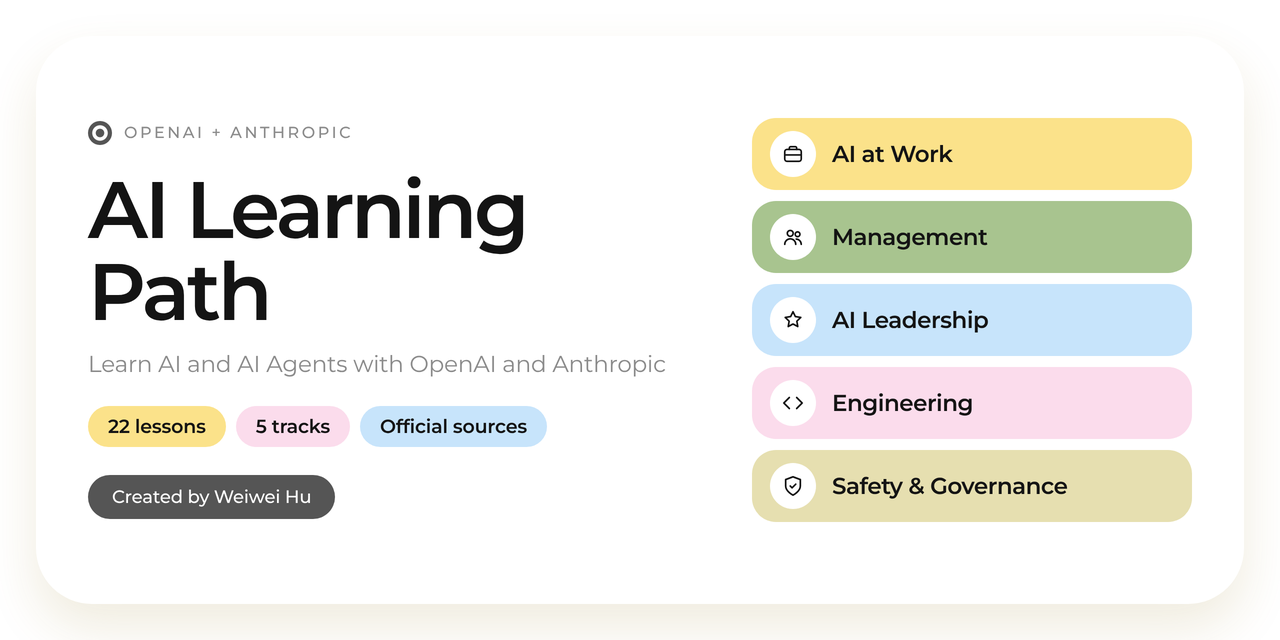
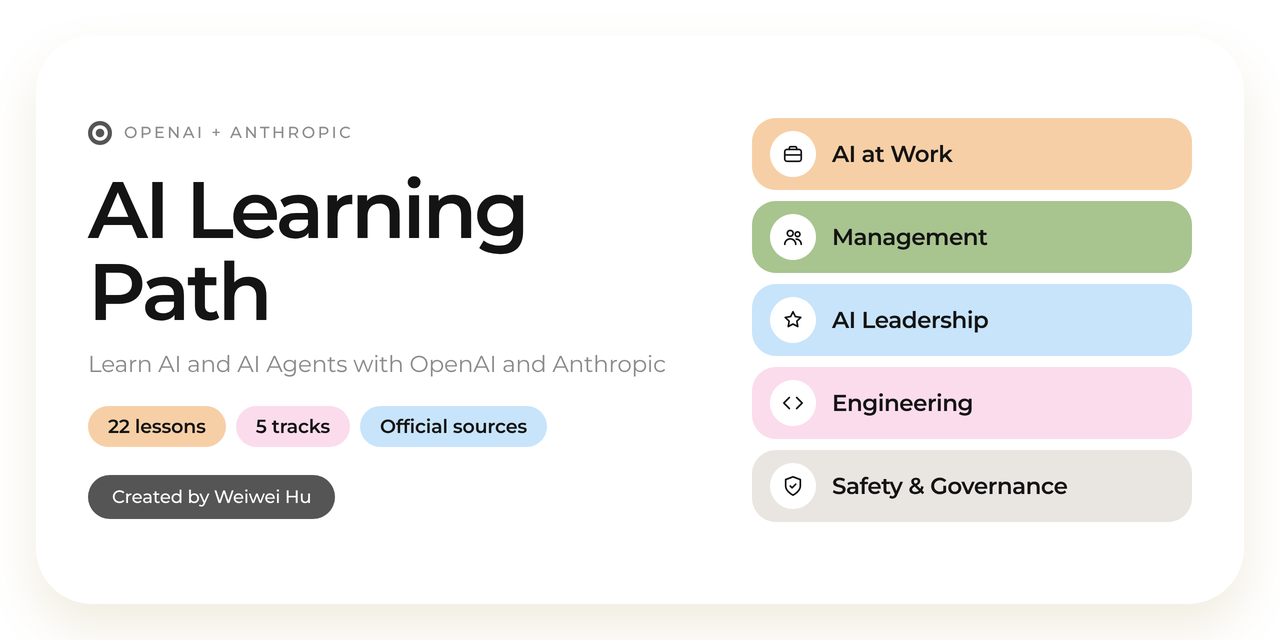
Update design
Claude-Session: https://claude.ai/code/session_01BdwePaEpPAiDmq5pX3fjB4

Changed region(s): [[0.5625, 0.6875, 0.9375, 0.8125], [0.5625, 0.1875, 0.9375, 0.3125], [0.0625, 0.625, 0.1875, 0.7188]]

diff --git a/docs/index.html b/docs/index.html
@@ -305,7 +305,7 @@ body,.bg{background:#fff}
   <p class="hlabel">Free course</p>
   <h1>AI <em>Learning Path</em></h1>
   <p class="tagline2">Learn AI and AI Agents with OpenAI and Anthropic.</p>
-  <p class="socrow"><span class="soc"><a href="https://www.linkedin.com/in/weiweihu/" target="_blank" rel="noopener" aria-label="LinkedIn" title="LinkedIn"><svg aria-hidden="true" width="17" height="17" viewBox="0 0 24 24" fill="none" stroke="currentColor" stroke-width="1.8" stroke-linecap="round" stroke-linejoin="round"><path d="M16 8a6 6 0 0 1 6 6v7h-4v-7a2 2 0 0 0-4 0v7h-4v-7a6 6 0 0 1 6-6z"/><rect x="2" y="9" width="4" height="12"/><circle cx="4" cy="4" r="2"/></svg><span>LinkedIn</span></a><a href="https://github.com/wei-wei-hu" target="_blank" rel="noopener" aria-label="GitHub" title="GitHub"><svg aria-hidden="true" width="17" height="17" viewBox="0 0 24 24" fill="none" stroke="currentColor" stroke-width="1.8" stroke-linecap="round" stroke-linejoin="round"><path d="M9 19c-5 1.5-5-2.5-7-3m14 6v-3.87a3.37 3.37 0 0 0-.94-2.61c3.14-.35 6.44-1.54 6.44-7A5.44 5.44 0 0 0 20 4.77 5.07 5.07 0 0 0 19.91 1S18.73.65 16 2.48a13.38 13.38 0 0 0-7 0C6.27.65 5.09 1 5.09 1A5.07 5.07 0 0 0 5 4.77a5.44 5.44 0 0 0-1.5 3.78c0 5.42 3.3 6.61 6.44 7A3.37 3.37 0 0 0 9 18.13V22"/></svg><span>GitHub</span></a><a href="https://weiweihu.carrd.co/" target="_blank" rel="noopener" aria-label="Website" title="Website"><svg aria-hidden="true" width="17" height="17" viewBox="0 0 24 24" fill="none" stroke="currentColor" stroke-width="1.8" stroke-linecap="round" stroke-linejoin="round"><circle cx="12" cy="12" r="10"/><path d="M2 12h20"/><path d="M12 2a15.3 15.3 0 0 1 4 10 15.3 15.3 0 0 1-4 10 15.3 15.3 0 0 1-4-10 15.3 15.3 0 0 1 4-10z"/></svg><span>Website</span></a><a href="https://behindprompt.substack.com/" target="_blank" rel="noopener" aria-label="Behind the Prompt on Substack" title="Behind the Prompt on Substack"><svg aria-hidden="true" width="17" height="17" viewBox="0 0 24 24" fill="none" stroke="currentColor" stroke-width="1.8" stroke-linecap="round" stroke-linejoin="round"><path d="M12 1a3 3 0 0 0-3 3v8a3 3 0 0 0 6 0V4a3 3 0 0 0-3-3z"/><path d="M19 10v2a7 7 0 0 1-14 0v-2"/><path d="M12 19v4"/><path d="M8 23h8"/></svg><span>Podcast</span></a></span></p>
+  <p class="socrow"><span class="soc"><a href="https://www.linkedin.com/in/weiweihu/" target="_blank" rel="noopener" aria-label="LinkedIn" title="LinkedIn"><svg aria-hidden="true" width="17" height="17" viewBox="0 0 24 24" fill="none" stroke="currentColor" stroke-width="1.8" stroke-linecap="round" stroke-linejoin="round"><path d="M16 8a6 6 0 0 1 6 6v7h-4v-7a2 2 0 0 0-4 0v7h-4v-7a6 6 0 0 1 6-6z"/><rect x="2" y="9" width="4" height="12"/><circle cx="4" cy="4" r="2"/></svg><span>LinkedIn</span></a><a href="https://github.com/wei-wei-hu" target="_blank" rel="noopener" aria-label="GitHub" title="GitHub"><svg aria-hidden="true" width="17" height="17" viewBox="0 0 24 24" fill="none" stroke="currentColor" stroke-width="1.8" stroke-linecap="round" stroke-linejoin="round"><path d="M9 19c-5 1.5-5-2.5-7-3m14 6v-3.87a3.37 3.37 0 0 0-.94-2.61c3.14-.35 6.44-1.54 6.44-7A5.44 5.44 0 0 0 20 4.77 5.07 5.07 0 0 0 19.91 1S18.73.65 16 2.48a13.38 13.38 0 0 0-7 0C6.27.65 5.09 1 5.09 1A5.07 5.07 0 0 0 5 4.77a5.44 5.44 0 0 0-1.5 3.78c0 5.42 3.3 6.61 6.44 7A3.37 3.37 0 0 0 9 18.13V22"/></svg><span>GitHub</span></a><a href="https://weiweihu.carrd.co/" target="_blank" rel="noopener" aria-label="Website" title="Website"><svg aria-hidden="true" width="17" height="17" viewBox="0 0 24 24" fill="none" stroke="currentColor" stroke-width="1.8" stroke-linecap="round" stroke-linejoin="round"><circle cx="12" cy="12" r="10"/><path d="M2 12h20"/><path d="M12 2a15.3 15.3 0 0 1 4 10 15.3 15.3 0 0 1-4 10 15.3 15.3 0 0 1-4-10 15.3 15.3 0 0 1 4-10z"/></svg><span>Website</span></a><a href="https://behindprompt.substack.com/" target="_blank" rel="noopener" aria-label="Newsletter on Substack" title="Newsletter on Substack"><svg aria-hidden="true" width="17" height="17" viewBox="0 0 24 24" fill="none" stroke="currentColor" stroke-width="1.8" stroke-linecap="round" stroke-linejoin="round"><rect x="2" y="4" width="20" height="16" rx="2"/><path d="m22 6-10 7L2 6"/></svg><span>Newsletter</span></a></span></p>
   </div>
   <div class="prov glass" role="tablist" id="prov">
     <button class="pv" role="tab" data-v="openai" aria-selected="true"><span class="dot"></span>OpenAI</button>
@@ -353,7 +353,7 @@ body,.bg{background:#fff}
 // [title, subtitle, url, type, level, priority(E/R/O), time]
 const DATA={"openai": {"name": "OpenAI", "courses": 14, "P": {"work": {"t": "AI at Work", "who": "For anyone who uses AI in their job and wants better, more reliable results.", "st": [["Build AI fluency", "How AI works, where it fails, and how to brief it well.", [["Get oriented at OpenAI Academy", "Start with the Apply AI at Work pathway", "https://www.openai.com/academy", "Hub", "Beginner", "R", ""], ["AI Foundations", "AI basics, prompting, context, reviewing outputs", "https://academy.openai.com/pages/courses", "Course", "Beginner", "E", "60–75 min"], ["Applied AI Foundations", "Turn tasks into repeatable workflows with review points", "https://academy.openai.com/pages/courses", "Course", "Beginner", "E", "75–90 min"]]], ["Work with assistants and agents", "Hand off real tasks and check the results.", [["Agents and Workflows", "Delegate structured tasks to agents with checkpoints and oversight", "https://academy.openai.com/pages/courses", "Course", "Intermediate", "E", "75–90 min"], ["Scope AI Solutions", "Spot the tasks where AI is worth using", "https://academy.openai.com/pages/courses", "Course", "Beginner", "R", "30 min"], ["A practical guide to building agents", "Read the first chapter: when an agent fits a task", "https://cdn.openai.com/business-guides-and-resources/a-practical-guide-to-building-agents.pdf", "Guide", "Beginner", "O", ""]]]]}, "mgmt": {"t": "Management", "who": "For managers whose teams work with AI every day. Builds on AI at Work.", "st": [["Build team AI fluency", "What your team needs to know to work well with AI.", [["AI Foundations", "AI basics, prompting, context, reviewing outputs", "https://academy.openai.com/pages/courses", "Course", "Beginner", "E", "60–75 min"], ["Applied AI Foundations", "Turn tasks into repeatable workflows with review points", "https://academy.openai.com/pages/courses", "Course", "Beginner", "E", "75–90 min"], ["Agents and Workflows", "Delegate structured tasks to agents with checkpoints and oversight", "https://academy.openai.com/pages/courses", "Course", "Intermediate", "E", "75–90 min"]]], ["Redesign team workflows", "Decide what moves to AI and how work gets checked.", [["Scope AI Solutions", "Find valuable opportunities and turn one into a plan", "https://academy.openai.com/pages/courses", "Course", "Beginner", "E", "30 min"], ["A practical guide to building agents", "When an agent fits a task, and when a workflow is better", "https://cdn.openai.com/business-guides-and-resources/a-practical-guide-to-building-agents.pdf", "Guide", "Beginner", "R", "~1 hr"], ["Harness engineering", "How an engineering team's work changed when agents wrote the code", "https://openai.com/index/harness-engineering/", "Article", "Intermediate", "O", ""]]], ["Review, measure and scale", "Keep quality high and grow what works.", [["Evaluate AI Applications", "Representative checks, failure analysis, regression prevention", "https://academy.openai.com/pages/courses", "Course", "Intermediate", "R", "70 min"], ["Scale Codex Across Governed Teams and Systems", "For engineering managers: parallel work and governance", "https://academy.openai.com/pages/courses", "Course", "Advanced", "O", "100 min"]]]]}, "exec": {"t": "AI Leadership", "who": "For people who lead AI adoption: transformation leads, AI champions and the executives who sponsor them.", "st": [["Build AI fluency", "The Academy foundations path: from prompting to directing agents.", [["Get oriented at OpenAI Academy", "14 free courses across four pathways", "https://www.openai.com/academy", "Hub", "Beginner", "R", ""], ["AI Foundations", "AI basics, prompting, context, reviewing outputs, responsible use", "https://academy.openai.com/pages/courses", "Course", "Beginner", "E", "60–75 min"], ["Applied AI Foundations", "Break work into steps and build repeatable workflows with review points", "https://academy.openai.com/pages/courses", "Course", "Beginner", "E", "75–90 min"], ["Agents and Workflows", "Delegate structured tasks to agents with boundaries, checkpoints and oversight", "https://academy.openai.com/pages/courses", "Course", "Intermediate", "E", "75–90 min"]]], ["Set strategy", "Decide where AI and agents are worth it and how to roll them out.", [["AI Leadership", "Priorities, stakeholder alignment, and an AI strategy with governance and roadmap", "https://academy.openai.com/pages/courses", "Course", "Intermediate", "E", "180 min"], ["Scope AI Solutions", "Find valuable AI opportunities and turn one into a solution plan", "https://academy.openai.com/pages/courses", "Course", "Beginner", "E", "30 min"], ["A practical guide to building agents", "When an agent is worth building, its parts, orchestration, guardrails", "https://cdn.openai.com/business-guides-and-resources/a-practical-guide-to-building-agents.pdf", "Guide", "Beginner", "R", "~1 hr"], ["Harness engineering", "How a small team shipped 1M+ lines in five months with Codex writing every line", "https://openai.com/index/harness-engineering/", "Article", "Intermediate", "R", ""]]], ["Govern and oversee", "Risk, oversight and safeguards as AI gets real access.", [["Preparedness Framework", "How OpenAI tracks and gates frontier risks", "https://openai.com/index/updating-our-preparedness-framework/", "Policy", "Intermediate", "E", ""], ["The Hugging Face incident", "Models in a cyber evaluation got around isolation controls; what changed after", "https://openai.com/index/hugging-face-incident-and-the-road-ahead/", "Article", "Intermediate", "E", ""], ["Other Academy courses for your org", "AI for Educators and AI for College Students, 45 min each", "https://academy.openai.com/pages/courses", "Course", "Beginner", "O", "45 min"]]]]}, "eng": {"t": "Engineering", "who": "For architects and engineers who design, build and run AI systems.", "st": [["Learn the platform", "The API, tools and output formats everything else builds on.", [["Responses API", "The core API for text, tools and multi-turn state", "https://developers.openai.com/api/docs/guides/migrate-to-responses", "Docs", "Beginner", "E", ""], ["Using tools", "Built-in tools: web search, file search, code interpreter, MCP", "https://developers.openai.com/api/docs/guides/tools", "Docs", "Intermediate", "E", ""], ["Function calling", "Let models call your own code", "https://developers.openai.com/api/docs/guides/function-calling", "Docs", "Intermediate", "E", ""], ["Structured outputs", "Guarantee JSON that matches your schema", "https://developers.openai.com/api/docs/guides/structured-outputs", "Docs", "Intermediate", "R", ""], ["AI app development track", "Concept to production, including evals", "https://developers.openai.com/tracks/ai-application-development", "Track", "Intermediate", "R", ""]]], ["Ship your first app and agent", "Install, run, and read the source.", [["Agents SDK quickstart", "One agent, running locally", "https://developers.openai.com/api/docs/guides/agents/quickstart", "Docs", "Beginner", "E", "~10 min"], ["Agents SDK examples", "MCP, hosted MCP, memory, voice", "https://openai.github.io/openai-agents-python/examples", "Code", "Intermediate", "E", ""], ["openai/openai-agents-python", "Python SDK; successor to Swarm", "https://github.com/openai/openai-agents-python", "Repo", "Intermediate", "R", ""], ["openai/openai-agents-js", "TypeScript SDK, including voice agents", "https://github.com/openai/openai-agents-js", "Repo", "Intermediate", "O", ""], ["API Builder Bootcamp", "Live series: API foundations, agents, realtime, RAG, production", "https://academy.openai.com/public/resources/api-builder-bootcamp-2026-08-19", "Live/Video", "Intermediate", "R", "5 sessions"]]], ["Data, memory and multimodal", "Ground answers in your data, keep state, and work beyond text.", [["File search and retrieval", "Built-in RAG over your documents", "https://developers.openai.com/api/docs/guides/tools-file-search", "Docs", "Intermediate", "E", ""], ["Conversation state", "Carry context and memory across turns", "https://developers.openai.com/api/docs/guides/conversation-state", "Docs", "Intermediate", "R", ""], ["Images and vision", "Image inputs and image generation", "https://developers.openai.com/api/docs/guides/images-vision", "Docs", "Beginner", "R", ""], ["Audio and speech", "Speech-to-text, text-to-speech and realtime audio", "https://developers.openai.com/api/docs/guides/audio", "Docs", "Intermediate", "O", ""], ["Computer use", "Let models operate interfaces through screenshots and actions", "https://developers.openai.com/api/docs/guides/tools-computer-use", "Docs", "Advanced", "O", ""]]], ["Make it reliable", "Memory, orchestration, retrieval, voice and deployment.", [["OpenAI Cookbook", "Runnable notebooks: RAG, tools, evals, multimodal, agents", "https://developers.openai.com/cookbook", "Hub", "Beginner", "E", ""], ["Memory and compaction recipe", "An evidence-review agent that manages long context", "https://developers.openai.com/cookbook/examples/agents_sdk/building_reliable_agents_memory_compaction", "Cookbook", "Advanced", "E", ""], ["Orchestration, handoffs and MCP tools", "From the full Cookbook list", "https://developers.openai.com/resources/cookbooks", "Cookbook", "Intermediate", "E", ""], ["Build with Retrieval-Augmented Generation", "Retrieval pipelines and answer-quality checks", "https://academy.openai.com/pages/courses", "Course", "Intermediate", "R", "100 min"], ["Deep Research API + Agents SDK", "Agentic research workflows", "https://learn.chatgpt.com/cookbook/examples/deep_research_api/introduction_to_deep_research_api_agents", "Cookbook", "Advanced", "O", ""], ["Voice agents guide", "Voice-first agents with realtime models", "https://developers.openai.com/api/docs/guides/voice-agents", "Docs", "Intermediate", "O", ""], ["Computer use topic hub", "Guides and demos for computer-using agents", "https://developers.openai.com/topics/cua", "Hub", "Advanced", "O", ""], ["Agents SDK Deployment Manager", "Run Agents SDK projects as services", "https://developers.openai.com/cookbook/examples/agents_sdk/deployment_manager/readme", "Cookbook", "Intermediate", "R", ""], ["Agents SDK on AWS Bedrock AgentCore", "Connect ChatGPT to a hosted Agents SDK workflow", "https://developers.openai.com/cookbook/examples/partners/aws/chatgpt_agents_sdk_aws_agentcore_cookbook/notebooks/chatgpt_agents_sdk_aws_agentcore_cookbook", "Cookbook", "Advanced", "O", ""], ["openai/openai-cookbook", "All notebooks in one repo", "https://github.com/openai/openai-cookbook", "Repo", "Beginner", "O", ""]]], ["Design agent systems", "Agents, runtimes and integrations.", [["Building agents learning track", "OpenAI's structured track on core agent concepts", "https://developers.openai.com/tracks/building-agents", "Track", "Beginner", "E", ""], ["Design and Build Agentic Systems", "Dependable agents with defined roles, controlled tools and safe handoffs", "https://academy.openai.com/pages/courses", "Course", "Intermediate", "E", "110 min"], ["Agents SDK guide", "Agents, tools, handoffs, guardrails, sessions, tracing", "https://developers.openai.com/api/docs/guides/agents/sdk", "Docs", "Intermediate", "E", ""], ["Introducing the Agents API", "Managed Codex harness; OpenAI, self-hosted or partner sandboxes", "https://openai.com/index/introducing-the-agents-api/", "Article", "Intermediate", "R", ""], ["Agents topic hub", "Every agent guide, SDK and cookbook on one page", "https://developers.openai.com/topics/agents", "Hub", "Beginner", "R", ""], ["Apps SDK", "Apps that run inside ChatGPT, built on MCP", "https://developers.openai.com/apps-sdk", "Docs", "Intermediate", "R", ""], ["MCP Apps in ChatGPT", "Build to the open MCP Apps standard, add ChatGPT extras after", "https://developers.openai.com/apps-sdk/mcp-apps-in-chatgpt", "Docs", "Advanced", "O", ""], ["Skills + Agents SDK case study", "How OpenAI runs its own repos with AGENTS.md and skills", "https://developers.openai.com/blog/skills-agents-sdk", "Article", "Intermediate", "O", ""]]], ["Learn Codex", "The Academy Codex courses plus the docs behind them.", [["Get Started with Codex", "Scope coding tasks and verify changes with review evidence", "https://academy.openai.com/pages/courses", "Course", "Beginner", "E", "80 min"], ["Codex docs", "App, IDE extension, CLI and cloud", "https://developers.openai.com/codex/", "Docs", "Beginner", "E", ""], ["Codex best practices", "From first prompts to autonomous workflows", "https://developers.openai.com/codex/learn/best-practices", "Guide", "Intermediate", "R", ""], ["Codex glossary", "AGENTS.md, skills, plugins, hooks, surfaces", "https://developers.openai.com/codex/glossary", "Docs", "Beginner", "O", ""], ["openai/codex", "Open-source CLI and the harness behind the Agents API", "https://github.com/openai/codex", "Repo", "Advanced", "O", ""]]], ["Extend and scale Codex", "Skills, plugins and running many agents at once.", [["Extend Codex Workflows", "Turn what works into repeatable team workflows", "https://academy.openai.com/pages/courses", "Course", "Intermediate", "E", "90 min"], ["Agent Skills in Codex", "SKILL.md folders that load only when needed", "https://developers.openai.com/codex/skills", "Docs", "Intermediate", "E", ""], ["Build a Codex plugin", "Bundle skills, MCP servers, apps and hooks", "https://developers.openai.com/codex/plugins/build", "Docs", "Intermediate", "R", ""], ["Connect the Docs MCP server", "developers.openai.com/mcp gives agents read-only doc search", "https://developers.openai.com/codex/skills", "Tool", "Intermediate", "O", ""], ["openai/skills", "The official skills catalog to copy from", "https://github.com/openai/skills", "Repo", "Beginner", "R", ""], ["openai/plugins", "Official plugins, including an Agents SDK plugin", "https://github.com/openai/plugins", "Repo", "Intermediate", "O", ""], ["openai/codex-plugin-cc", "Call Codex from inside Claude Code", "https://github.com/openai/codex-plugin-cc", "Repo", "Intermediate", "O", ""], ["Scale Codex Across Governed Teams and Systems", "Parallel Codex work, governance, safe integration", "https://academy.openai.com/pages/courses", "Course", "Advanced", "R", "100 min"], ["openai/symphony", "Run autonomous Codex agents from a Linear board", "https://github.com/openai/symphony", "Repo", "Advanced", "O", ""], ["Codex Bootcamp", "Live 101 / 201 / 301 sessions for engineering teams", "https://academy.openai.com/en/public/clubs/builders-etkn1/overview", "Live/Video", "Intermediate", "O", ""]]], ["Evaluate, optimize and operate", "Prove it works, then make it faster, cheaper and better.", [["Evaluate AI Applications", "Representative evals, failure analysis, regression prevention", "https://academy.openai.com/pages/courses", "Course", "Intermediate", "E", "70 min"], ["Optimize AI Application Performance", "Balance quality, latency, throughput, reliability and cost", "https://academy.openai.com/pages/courses", "Course", "Advanced", "R", "30 min"], ["Model optimization track", "Accuracy, performance and cost tuning", "https://developers.openai.com/tracks/model-optimization", "Track", "Advanced", "R", ""], ["Fine-tuning topic hub", "Supervised, vision, preference and reinforcement fine-tuning", "https://developers.openai.com/topics/fine-tuning", "Hub", "Advanced", "O", ""]]]]}, "safe": {"t": "Safety & Governance", "who": "For risk, compliance, security and governance teams, and anyone responsible for using AI safely.", "st": [["Understand the risks", "How OpenAI defines and gates frontier risk.", [["Preparedness Framework", "How OpenAI tracks and gates frontier risks", "https://openai.com/index/updating-our-preparedness-framework/", "Policy", "Intermediate", "E", ""], ["The Hugging Face incident", "Models in a cyber evaluation got around isolation controls; what changed after", "https://openai.com/index/hugging-face-incident-and-the-road-ahead/", "Article", "Intermediate", "E", ""]]], ["Secure agents", "Guardrails and defenses for agents with real access.", [["Hardening Atlas against prompt injection", "A rapid loop for finding and fixing attacks on browser agents", "https://openai.com/index/hardening-atlas-against-prompt-injection", "Article", "Intermediate", "E", ""], ["A practical guide to building agents: guardrails", "Layered guardrails for agents", "https://cdn.openai.com/business-guides-and-resources/a-practical-guide-to-building-agents.pdf", "Guide", "Beginner", "R", "~1 hr"], ["Computer use", "Let models operate interfaces through screenshots and actions", "https://developers.openai.com/api/docs/guides/tools-computer-use", "Docs", "Advanced", "O", ""]]], ["Evaluate and monitor", "Prove quality and watch for misbehavior.", [["Evaluate AI Applications", "Evals, failure analysis, regression prevention", "https://academy.openai.com/pages/courses", "Course", "Intermediate", "E", "70 min"], ["Detecting misbehavior in frontier reasoning models", "Using chain-of-thought monitoring to catch misaligned behavior", "https://openai.com/index/chain-of-thought-monitoring/", "Research", "Advanced", "R", ""], ["Chain-of-thought controllability study", "CoT-Control suite finds models struggle to reshape their reasoning", "https://openai.com/index/reasoning-models-chain-of-thought-controllability/", "Research", "Advanced", "O", ""]]], ["Follow the research", "Where OpenAI publishes its safety and research work.", [["OpenAI safety", "How OpenAI approaches safety and alignment", "https://openai.com/safety", "Hub", "Beginner", "R", ""], ["OpenAI research index", "Papers and posts across reasoning, multimodal and more", "https://openai.com/research", "Hub", "Intermediate", "O", ""]]]]}}}, "anthropic": {"name": "Anthropic", "courses": 22, "P": {"work": {"t": "AI at Work", "who": "For anyone who uses AI in their job and wants better, more reliable results.", "st": [["Build AI fluency", "How AI works, where it fails, and how to brief it well.", [["AI Fluency: Framework & Foundations", "Collaborate with AI effectively, efficiently, ethically and safely", "https://anthropic.skilljar.com/", "Course", "Beginner", "E", ""], ["AI Capabilities and Limitations", "A plain introduction to how AI works", "https://anthropic.skilljar.com/", "Course", "Beginner", "E", ""], ["Prompt engineering guide", "Techniques for clear, reliable instructions", "https://platform.claude.com/docs/en/build-with-claude/prompt-engineering/overview", "Docs", "Beginner", "O", ""]]], ["Work with Claude", "Use Claude on real files and multi-step tasks.", [["Claude 101", "Claude for everyday work and its core features", "https://anthropic.skilljar.com/", "Course", "Beginner", "E", ""], ["Introduction to Claude Cowork", "Hand Claude multi-step work on real files and projects", "https://anthropic.skilljar.com/", "Course", "Beginner", "E", ""], ["Building agents with Skills", "Turn how you work into skills Claude can reuse", "https://claude.com/blog/building-agents-with-skills-equipping-agents-for-specialized-work", "Article", "Beginner", "R", ""], ["AI Fluency for your sector", "Versions for small businesses, nonprofits, educators and creative work", "https://anthropic.skilljar.com/", "Course", "Beginner", "O", ""]]]]}, "mgmt": {"t": "Management", "who": "For managers whose teams work with AI every day. Builds on AI at Work.", "st": [["Build team AI fluency", "What your team needs to know to work well with AI.", [["AI Fluency: Framework & Foundations", "Collaborate with AI effectively, efficiently, ethically and safely", "https://anthropic.skilljar.com/", "Course", "Beginner", "E", ""], ["Claude 101", "Claude for everyday work", "https://anthropic.skilljar.com/", "Course", "Beginner", "E", ""], ["Introduction to Claude Cowork", "Hand Claude multi-step work on real files and projects", "https://anthropic.skilljar.com/", "Course", "Beginner", "E", ""]]], ["Redesign team workflows", "Capture how your team works so AI can repeat it.", [["Building agents with Skills", "Package team know-how so agents can reuse it", "https://claude.com/blog/building-agents-with-skills-equipping-agents-for-specialized-work", "Article", "Beginner", "E", ""], ["AI Fluency for your sector", "Versions for small businesses, nonprofits, educators and creative work", "https://anthropic.skilljar.com/", "Course", "Beginner", "R", ""], ["anthropics/skills", "Example skills to adapt for your team", "https://github.com/anthropics/skills", "Repo", "Beginner", "O", ""]]], ["Review, measure and scale", "Keep quality high and grow what works.", [["Demystifying evals for AI agents", "How to check AI work before relying on it", "https://www.anthropic.com/engineering/demystifying-evals-for-ai-agents", "Article", "Intermediate", "R", ""], ["Claude Code in Action", "For engineering managers: long sessions you can steer and verify", "https://anthropic.skilljar.com/", "Course", "Intermediate", "O", ""]]]]}, "exec": {"t": "AI Leadership", "who": "For people who lead AI adoption: transformation leads, AI champions and the executives who sponsor them.", "st": [["Build AI fluency", "Anthropic Academy foundations: how AI works and how to work with it.", [["Get oriented at Anthropic Academy", "22 free courses for workers, builders, educators and leaders", "https://anthropic.skilljar.com/", "Hub", "Beginner", "R", ""], ["AI Fluency: Framework & Foundations", "Collaborate with AI effectively, efficiently, ethically and safely", "https://anthropic.skilljar.com/", "Course", "Beginner", "E", ""], ["Claude 101", "Claude for everyday work, core features, where to go next", "https://anthropic.skilljar.com/", "Course", "Beginner", "E", ""], ["AI Capabilities and Limitations", "A plain introduction to how AI works", "https://anthropic.skilljar.com/", "Course", "Beginner", "R", ""], ["Introduction to Claude Cowork", "Work with Claude on real files and multi-step projects", "https://anthropic.skilljar.com/", "Course", "Beginner", "O", ""]]], ["Set strategy", "Decide where AI and agents are worth it and how to roll them out.", [["Building effective agents", "The foundational post: workflows versus agents, and when to add complexity", "https://www.anthropic.com/engineering/building-effective-agents", "Article", "Beginner", "E", ""], ["Building agents with Skills", "Why Anthropic stopped building specialized agents and packaged expertise instead", "https://claude.com/blog/building-agents-with-skills-equipping-agents-for-specialized-work", "Article", "Beginner", "E", ""], ["How we built our multi-agent research system", "Lessons from Claude's Research feature", "https://www.anthropic.com/engineering/multi-agent-research-system", "Article", "Intermediate", "R", ""], ["Claude Managed Agents announcement", "Hosted agents in public beta; pricing and use cases", "https://claude.com/blog/claude-managed-agents", "Article", "Beginner", "R", ""]]], ["Govern and oversee", "Risk, oversight and safeguards as AI gets real access.", [["Responsible Scaling Policy", "How Anthropic gates more capable models behind safeguards", "https://www.anthropic.com/responsible-scaling-policy", "Policy", "Intermediate", "E", ""], ["Beyond permission prompts", "Sandboxing that makes Claude Code more secure and autonomous", "https://www.anthropic.com/engineering/claude-code-sandboxing", "Article", "Intermediate", "R", ""], ["AI Fluency for your sector", "Versions for nonprofits, small businesses, educators and creative work", "https://anthropic.skilljar.com/", "Course", "Beginner", "O", ""]]]]}, "eng": {"t": "Engineering", "who": "For architects and engineers who design, build and run AI systems.", "st": [["Learn the platform", "The API, prompting, tools and output formats.", [["Claude Platform 101", "Building on the Claude Platform at any experience level", "https://anthropic.skilljar.com/", "Course", "Beginner", "E", ""], ["Features overview", "Every model capability and tool in one table", "https://platform.claude.com/docs/en/build-with-claude/overview", "Docs", "Beginner", "E", ""], ["Building with the Claude API", "The full course on working with Claude through the API", "https://anthropic.skilljar.com/", "Course", "Intermediate", "R", ""], ["Prompt engineering guide", "Official techniques for clear, reliable prompts", "https://platform.claude.com/docs/en/build-with-claude/prompt-engineering/overview", "Docs", "Beginner", "R", ""], ["Structured outputs", "Guarantee JSON and tool inputs that match your schema", "https://platform.claude.com/docs/en/build-with-claude/structured-outputs", "Docs", "Intermediate", "R", ""]]], ["Ship your first app and agent", "Install, run, and read the source.", [["Agent SDK quickstart", "Build a bug-fixing agent in minutes", "https://code.claude.com/docs/en/agent-sdk/quickstart", "Docs", "Beginner", "E", ""], ["anthropics/claude-agent-sdk-demos", "Example agents: email assistant, research agent and more", "https://github.com/anthropics/claude-agent-sdk-demos", "Repo", "Intermediate", "E", ""], ["anthropics/claude-agent-sdk-python", "Python Agent SDK", "https://github.com/anthropics/claude-agent-sdk-python", "Repo", "Intermediate", "R", ""], ["anthropics/claude-agent-sdk-typescript", "TypeScript Agent SDK", "https://github.com/anthropics/claude-agent-sdk-typescript", "Repo", "Intermediate", "O", ""], ["Managed Agents quickstart", "Create your first hosted agent session", "https://platform.claude.com/docs/en/managed-agents/quickstart", "Docs", "Intermediate", "R", ""]]], ["Context, data and tools", "Ground answers in your data, keep memory, and give models good tools.", [["Effective context engineering for AI agents", "Manage the model's limited attention across long tasks", "https://www.anthropic.com/engineering/effective-context-engineering-for-ai-agents", "Article", "Intermediate", "E", ""], ["Writing effective tools for agents", "Design, test and improve tools, with agents helping", "https://www.anthropic.com/engineering/writing-tools-for-agents", "Article", "Intermediate", "E", ""], ["Introducing Contextual Retrieval", "Anthropic's approach to more accurate RAG", "https://www.anthropic.com/news/contextual-retrieval", "Article", "Intermediate", "R", ""], ["Memory tool", "Let Claude store and read information across conversations", "https://platform.claude.com/docs/en/agents-and-tools/tool-use/memory-tool", "Docs", "Intermediate", "R", ""], ["Computer use tool", "Control interfaces through screenshots, mouse and keyboard", "https://platform.claude.com/docs/en/agents-and-tools/tool-use/computer-use-tool", "Docs", "Advanced", "O", ""]]], ["Make it reliable", "Recipes, starter apps and the core API.", [["anthropics/claude-cookbooks", "Notebooks for tool use, RAG, vision, sub-agents, skills and more", "https://github.com/anthropics/claude-cookbooks", "Repo", "Intermediate", "E", ""], ["anthropics/claude-quickstarts", "Deployable starter apps on the Claude API", "https://github.com/anthropics/claude-quickstarts", "Repo", "Intermediate", "R", ""], ["Working with the Messages API", "The core API the SDKs build on", "https://platform.claude.com/docs/en/build-with-claude/working-with-messages", "Docs", "Beginner", "R", ""], ["anthropics/courses", "Anthropic's notebook courses", "https://github.com/anthropics/courses", "Repo", "Beginner", "O", ""], ["Interactive prompt engineering tutorial", "Hands-on prompting exercises", "https://github.com/anthropics/prompt-eng-interactive-tutorial", "Repo", "Beginner", "O", ""]]], ["Design agent systems", "Runtimes and integrations.", [["Agent SDK overview", "The Claude Code agent loop, tools and context management as a library", "https://code.claude.com/docs/en/agent-sdk/overview", "Docs", "Intermediate", "E", ""], ["Claude Managed Agents overview", "Hosted harness for long-running and asynchronous work", "https://platform.claude.com/docs/en/managed-agents/overview", "Docs", "Intermediate", "E", ""], ["Introduction to Model Context Protocol", "Build MCP servers and clients in Python", "https://anthropic.skilljar.com/", "Course", "Intermediate", "E", ""], ["Building agents with the Claude Agent SDK", "Design notes behind the SDK", "https://www.anthropic.com/engineering/building-agents-with-the-claude-agent-sdk", "Article", "Intermediate", "R", ""], ["Code execution with MCP", "Cut context use by letting agents call tools through code", "https://www.anthropic.com/engineering/code-execution-with-mcp", "Article", "Advanced", "R", ""], ["Model Context Protocol: Advanced Topics", "Sampling, notifications, transports for production servers", "https://anthropic.skilljar.com/", "Course", "Advanced", "O", ""], ["MCP specification and docs", "The open standard's official site", "https://modelcontextprotocol.io", "Docs", "Intermediate", "O", ""]]], ["Learn Claude Code", "The Academy courses plus the docs behind them.", [["Claude Code 101", "Use Claude Code well in daily development", "https://anthropic.skilljar.com/", "Course", "Beginner", "E", ""], ["Claude Code docs", "Setup, commands, settings and integrations", "https://code.claude.com/docs/en/overview", "Docs", "Beginner", "E", ""], ["Claude Code: best practices for agentic coding", "Habits that work, from Anthropic's own engineers", "https://www.anthropic.com/engineering/claude-code-best-practices", "Article", "Intermediate", "R", ""], ["Claude Code in Action", "Long, mostly unattended sessions you can steer and verify", "https://anthropic.skilljar.com/", "Course", "Intermediate", "R", ""], ["anthropics/claude-code", "The Claude Code repository and issue tracker", "https://github.com/anthropics/claude-code", "Repo", "Intermediate", "O", ""]]], ["Extend and scale Claude Code", "Skills, subagents, plugins and automation.", [["Introduction to Agent Skills", "Build, configure, share and troubleshoot Skills", "https://anthropic.skilljar.com/", "Course", "Intermediate", "E", ""], ["Equipping agents with Agent Skills", "How Skills work and best practices for writing them", "https://www.anthropic.com/engineering/equipping-agents-for-the-real-world-with-agent-skills", "Article", "Intermediate", "E", ""], ["anthropics/skills", "Official example skills, including document skills", "https://github.com/anthropics/skills", "Repo", "Beginner", "R", ""], ["Introduction to Subagents", "Use subagents to manage context and delegate tasks", "https://anthropic.skilljar.com/", "Course", "Intermediate", "R", ""], ["anthropics/claude-plugins-official", "Anthropic-managed directory of Claude Code plugins", "https://github.com/anthropics/claude-plugins-official", "Repo", "Intermediate", "O", ""], ["anthropics/claude-code-action", "Run Claude Code in GitHub Actions", "https://github.com/anthropics/claude-code-action", "Repo", "Advanced", "O", ""]]], ["Evaluate, deploy and operate", "Prove it works and keep it running well.", [["Demystifying evals for AI agents", "How to design rigorous evals for multi-turn agents", "https://www.anthropic.com/engineering/demystifying-evals-for-ai-agents", "Article", "Intermediate", "E", ""], ["Effective harnesses for long-running agents", "Keep agents productive across many context windows", "https://www.anthropic.com/engineering/effective-harnesses-for-long-running-agents", "Article", "Advanced", "E", ""], ["AI Fluency for Builders", "Take a problem all the way to a shipped solution", "https://anthropic.skilljar.com/", "Course", "Intermediate", "R", ""], ["Agents articles hub", "Ongoing posts on subagents, automations and Managed Agents", "https://claude.com/blog/category/agents", "Hub", "Intermediate", "R", ""], ["Claude with Amazon Bedrock / on Google Cloud", "Cloud deployment courses", "https://anthropic.skilljar.com/", "Course", "Intermediate", "O", ""]]]]}, "safe": {"t": "Safety & Governance", "who": "For risk, compliance, security and governance teams, and anyone responsible for using AI safely.", "st": [["Understand the risks", "How Anthropic defines and gates frontier risk.", [["Responsible Scaling Policy", "How Anthropic gates more capable models behind safeguards", "https://www.anthropic.com/responsible-scaling-policy", "Policy", "Intermediate", "E", ""], ["Agentic misalignment", "Stress tests of 16 models in simulated corporate settings", "https://www.anthropic.com/news/agentic-misalignment", "Research", "Intermediate", "E", ""]]], ["Secure agents", "Sandboxing and permissions for agents with real access.", [["Beyond permission prompts", "Sandboxing that makes Claude Code more secure and autonomous", "https://www.anthropic.com/engineering/claude-code-sandboxing", "Article", "Intermediate", "E", ""], ["Computer use tool", "Control interfaces through screenshots, mouse and keyboard", "https://platform.claude.com/docs/en/agents-and-tools/tool-use/computer-use-tool", "Docs", "Advanced", "O", ""], ["Frontier Red Team blog", "What frontier models mean for national security", "https://red.anthropic.com", "Hub", "Advanced", "O", ""]]], ["Evaluate and monitor", "Prove quality before relying on AI.", [["Demystifying evals for AI agents", "How to design rigorous evals for multi-turn agents", "https://www.anthropic.com/engineering/demystifying-evals-for-ai-agents", "Article", "Intermediate", "E", ""], ["Effective harnesses for long-running agents", "Keep agents productive across many context windows", "https://www.anthropic.com/engineering/effective-harnesses-for-long-running-agents", "Article", "Advanced", "O", ""]]], ["Follow the research", "How models work inside, and how they are kept aligned.", [["Anthropic research hub", "Alignment, interpretability, societal impacts, economics and more", "https://www.anthropic.com/research", "Hub", "Intermediate", "R", ""], ["Interpretability team", "How language models work inside, as a foundation for safety", "https://www.anthropic.com/research/team/interpretability", "Hub", "Advanced", "O", ""], ["Tracing the thoughts of a large language model", "A readable entry point to interpretability", "https://www.anthropic.com/research/tracing-thoughts-language-model", "Research", "Intermediate", "O", ""], ["Alignment research", "Work on keeping future models helpful, honest and harmless", "https://www.anthropic.com/research/alignment", "Hub", "Advanced", "O", ""]]]]}}}};
 const PR={E:'Essential',R:'Recommended',O:'Optional'};
-const COL=[['#fbe28a','#c9a521','transparent'],['#a8c48f','#5f8a46','transparent'],['#fbdcec','#b9779d','transparent'],['#c7e4fb','#5d93bd','transparent'],['#e6dfb0','#8f8a45','transparent']];
+const COL=[['#f7cfa6','#c0803a','transparent'],['#a8c48f','#5f8a46','transparent'],['#fbdcec','#b9779d','transparent'],['#c7e4fb','#5d93bd','transparent'],['#e9e6e1','#8b8b8b','transparent']];
 const S={};try{Object.assign(S,JSON.parse(localStorage.getItem('ai-path')||'{}'))}catch(e){}
 const save=()=>{try{localStorage.setItem('ai-path',JSON.stringify(S))}catch(e){}};
 let prov=DATA[S._v]?S._v:'openai',cur=['work','mgmt','exec','eng','safe'].includes(S._t)?S._t:'work',essOnly=!!S._e;let P=DATA[prov].P;
